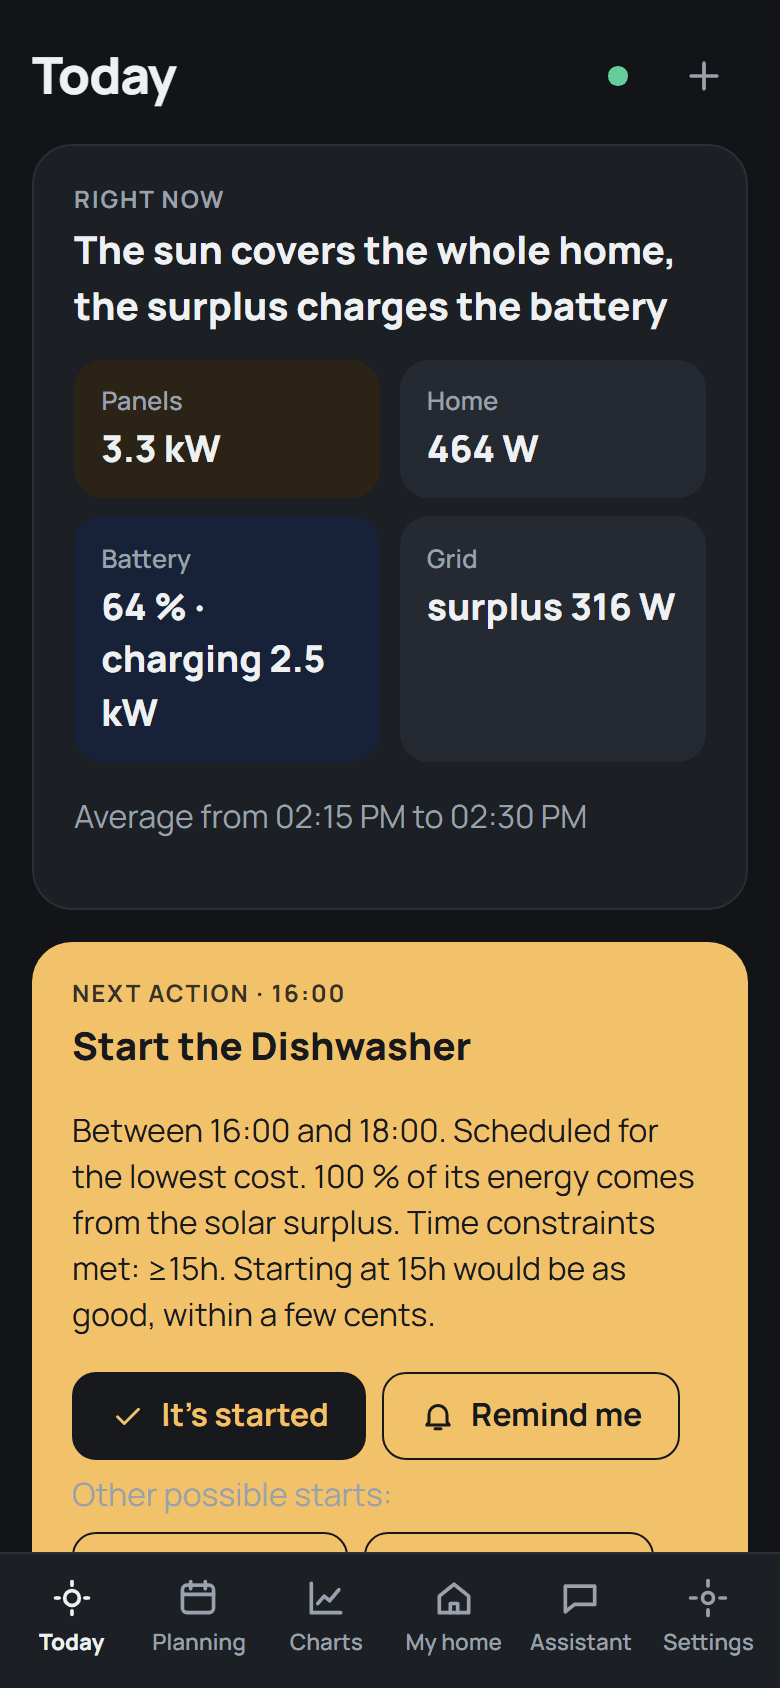
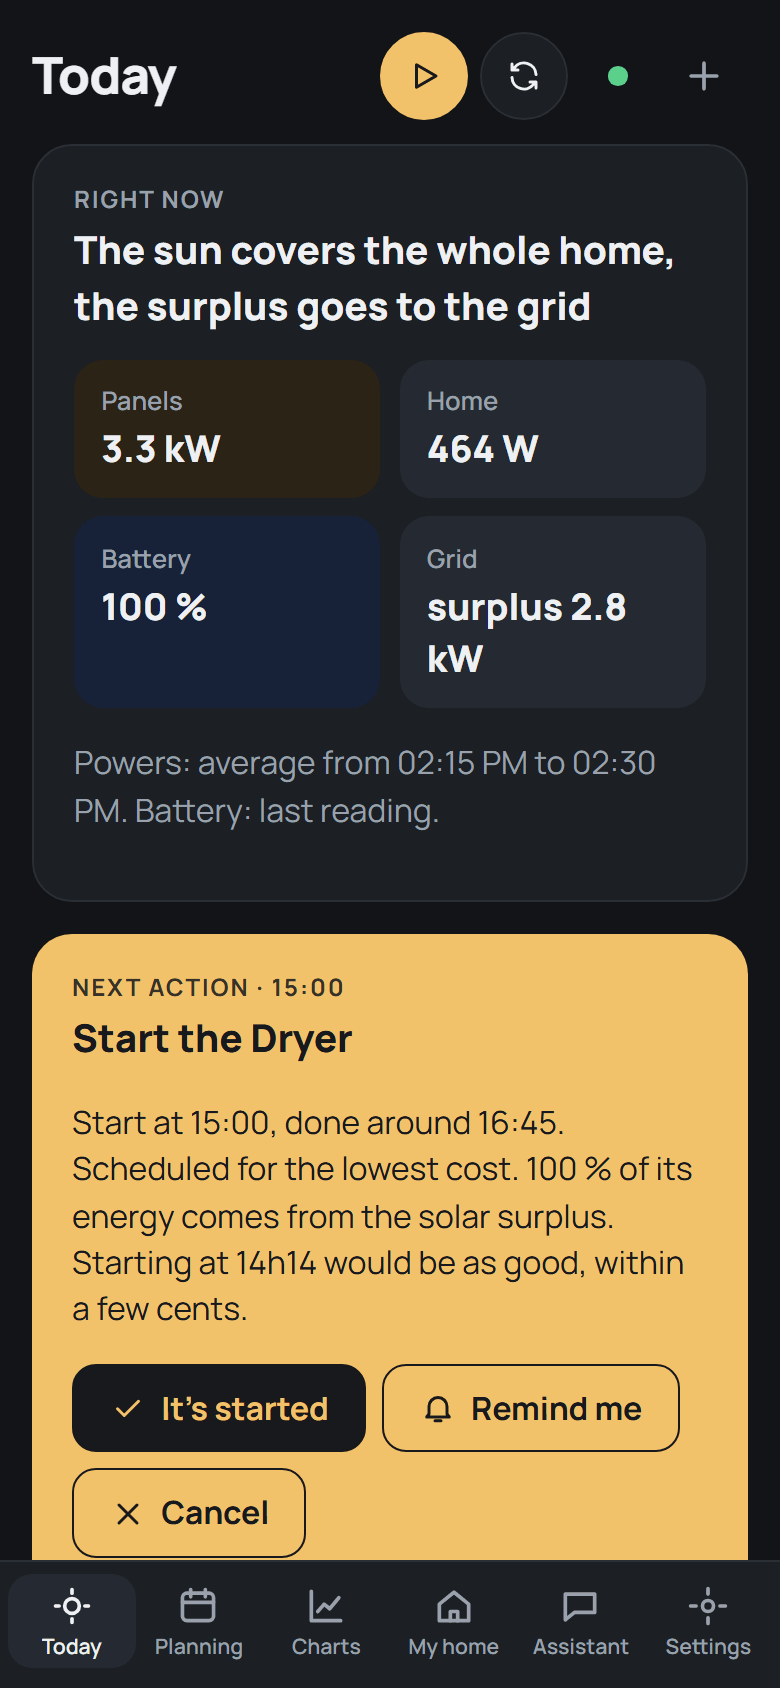
Guide : captures de la nouvelle frise des équipements
Captures d'Aujourd'hui (ordinateur, téléphone clair et sombre) et de
Courbes refaites en anglais et en français, avec le nouveau dessin du
Planning des équipements.

L'outil de captures attend maintenant la phrase du relevé du moment avant
de photographier (jusqu'à trois minutes) : connecté à Home Assistant ne
suffisait pas, le premier relevé des puissances arrive environ 70 secondes
après le démarrage, et la carte « En ce moment » se repliait sur le texte
du plan.

diff --git a/dev/tools/screenshots.py b/dev/tools/screenshots.py
@@ -37,7 +37,9 @@ OUTPUT = ROOT / "docs" / "images"
 LANGUAGES = ("en", "fr")
 THEMES = {"light": "ivory", "dark": "graphite"}
 DEVICES = {"phone": (390, 844), "desktop": (1440, 900)}
-NOW_MS = 1781094600000  # 10/06/2026 14:30 à Paris (``demo_home.NOW``), horloge du navigateur
+NOW_MS = (
+    1781094600000  # 10/06/2026 14:30 à Paris (``demo_home.NOW``), horloge du navigateur
+)
 TIME_ZONE = "Europe/Paris"
 
 
@@ -60,9 +62,21 @@ SHOTS: tuple[Shot, ...] = (
     Shot("planning-desktop-dark", "/planning", "desktop", "dark", full_page=True),
     Shot("planning-phone-light", "/planning", "phone", "light"),
     Shot("curves-desktop-light", "/curves", "desktop", "light", full_page=True),
-    Shot("curves-week-desktop-light", "/curves", "desktop", "light", extra=(("plan.tab", "week"),)),
+    Shot(
+        "curves-week-desktop-light",
+        "/curves",
+        "desktop",
+        "light",
+        extra=(("plan.tab", "week"),),
+    ),
     Shot("home-desktop-light", "/home", "desktop", "light"),
-    Shot("home-data-desktop-light", "/home", "desktop", "light", extra=(("home.tab", "data"),)),
+    Shot(
+        "home-data-desktop-light",
+        "/home",
+        "desktop",
+        "light",
+        extra=(("home.tab", "data"),),
+    ),
     Shot("assistant-desktop-light", "/assistant", "desktop", "light"),
     Shot("settings-desktop-light", "/settings", "desktop", "light", full_page=True),
     Shot("status-desktop-light", "/settings/status", "desktop", "light"),
@@ -115,14 +129,22 @@ def tool_env() -> dict[str, str]:
     return env
 
 
-def wait_until_up(app_url: str, process: subprocess.Popen[bytes], timeout_s: float = 60) -> None:
+def wait_until_up(
+    app_url: str, process: subprocess.Popen[bytes], timeout_s: float = 180
+) -> None:
     deadline = time.monotonic() + timeout_s
     while time.monotonic() < deadline and process.poll() is None:
         try:
             with urllib.request.urlopen(app_url + "/api/health", timeout=5) as response:
                 health = json.loads(response.read())
             if health["connections"]["home_assistant"]["state"] == "connected":
-                return
+                # Connecté ne suffit pas : la carte « En ce moment » d'Aujourd'hui attend le
+                # premier relevé des puissances ; sans lui, elle se replie sur le texte du plan.
+                with urllib.request.urlopen(
+                    app_url + "/api/views/today", timeout=5
+                ) as response:
+                    if (json.loads(response.read()).get("now") or {}).get("sentence"):
+                        return
         except (urllib.error.URLError, OSError, KeyError, ValueError):
             pass
         time.sleep(0.5)
@@ -131,7 +153,16 @@ def wait_until_up(app_url: str, process: subprocess.Popen[bytes], timeout_s: flo
 
 @contextmanager
 def demo_server(python: str, data: Path, port: int) -> Iterator[str]:
-    command = [python, "-m", "tools.demo", "serve", "--data", str(data), "--port", str(port)]
+    command = [
+        python,
+        "-m",
+        "tools.demo",
+        "serve",
+        "--data",
+        str(data),
+        "--port",
+        str(port),
+    ]
     process = subprocess.Popen(command, cwd=DEV, env=tool_env())
     app_url = f"http://127.0.0.1:{port}"
     try:
@@ -172,7 +203,9 @@ def capture(app_url: str, language: str, shots: tuple[Shot, ...]) -> list[Path]:
             )
             context.route(
                 "**/*",
-                lambda route: route.continue_() if local_url(route.request.url) else route.abort(),
+                lambda route: (
+                    route.continue_() if local_url(route.request.url) else route.abort()
+                ),
             )
             context.add_init_script(
                 "for (const [k, v] of Object.entries("
@@ -196,18 +229,35 @@ def capture(app_url: str, language: str, shots: tuple[Shot, ...]) -> list[Path]:
 
 
 def generate(python: str, language: str, data: Path) -> None:
-    command = [python, "-m", "tools.demo", "generate", "--language", language, "--data", str(data)]
-    subprocess.run(command, cwd=DEV, env=tool_env(), check=True, stdout=subprocess.DEVNULL)
+    command = [
+        python,
+        "-m",
+        "tools.demo",
+        "generate",
+        "--language",
+        language,
+        "--data",
+        str(data),
+    ]
+    subprocess.run(
+        command, cwd=DEV, env=tool_env(), check=True, stdout=subprocess.DEVNULL
+    )
 
 
 def main() -> int:
     parser = argparse.ArgumentParser(description=__doc__.splitlines()[0])
     parser.add_argument("--python", default=server_python(), help="python du serveur")
-    parser.add_argument("--data", type=Path, default=Path(tempfile.gettempdir()) / "wattslot-demo")
+    parser.add_argument(
+        "--data", type=Path, default=Path(tempfile.gettempdir()) / "wattslot-demo"
+    )
     parser.add_argument("--port", type=int, default=8199)
     parser.add_argument("--language", choices=LANGUAGES, action="append")
-    parser.add_argument("--only", action="append", help="nom d'une capture (plusieurs possibles)")
-    parser.add_argument("--reuse", action="store_true", help="données déjà générées gardées")
+    parser.add_argument(
+        "--only", action="append", help="nom d'une capture (plusieurs possibles)"
+    )
+    parser.add_argument(
+        "--reuse", action="store_true", help="données déjà générées gardées"
+    )
     args = parser.parse_args()
     shots = tuple(s for s in SHOTS if not args.only or s.name in args.only)
     for language in args.language or LANGUAGES:
